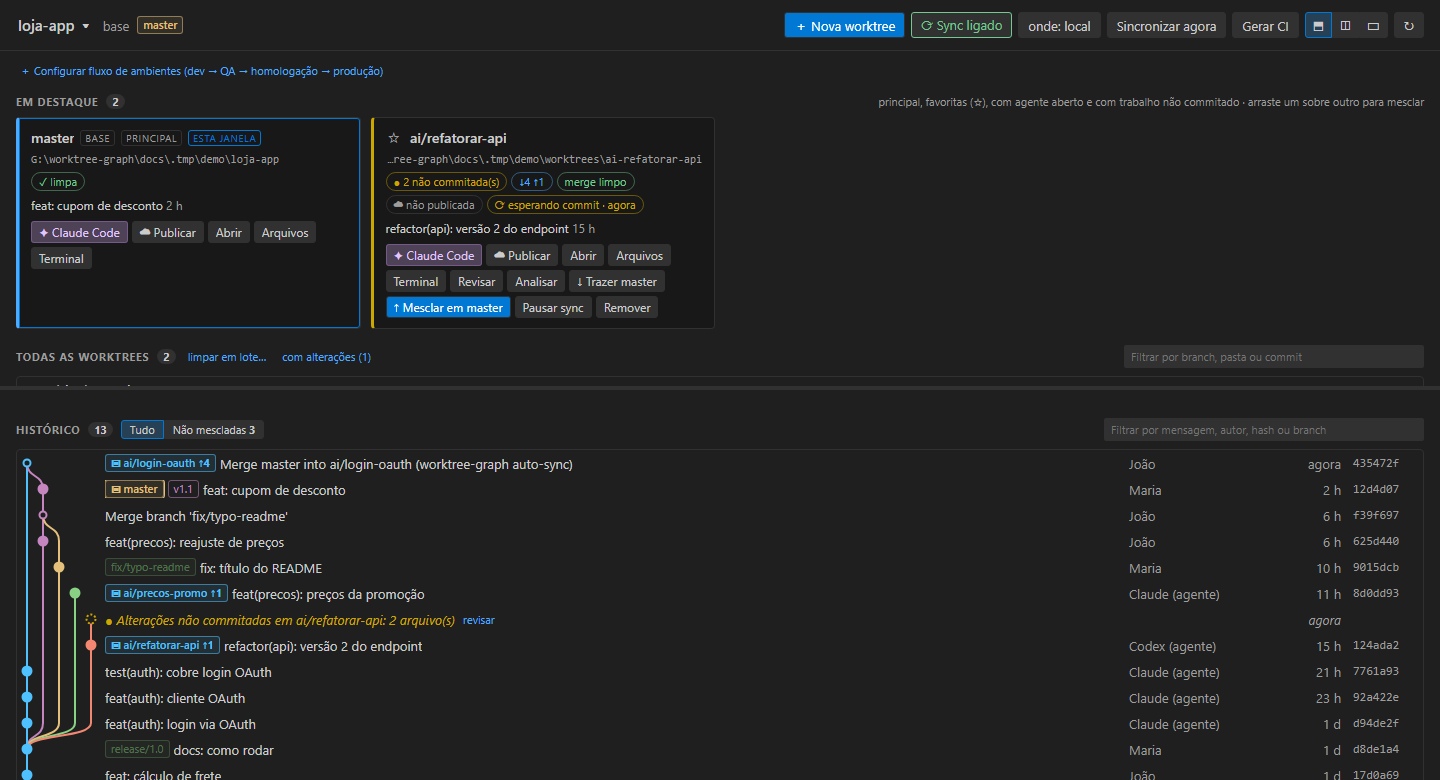
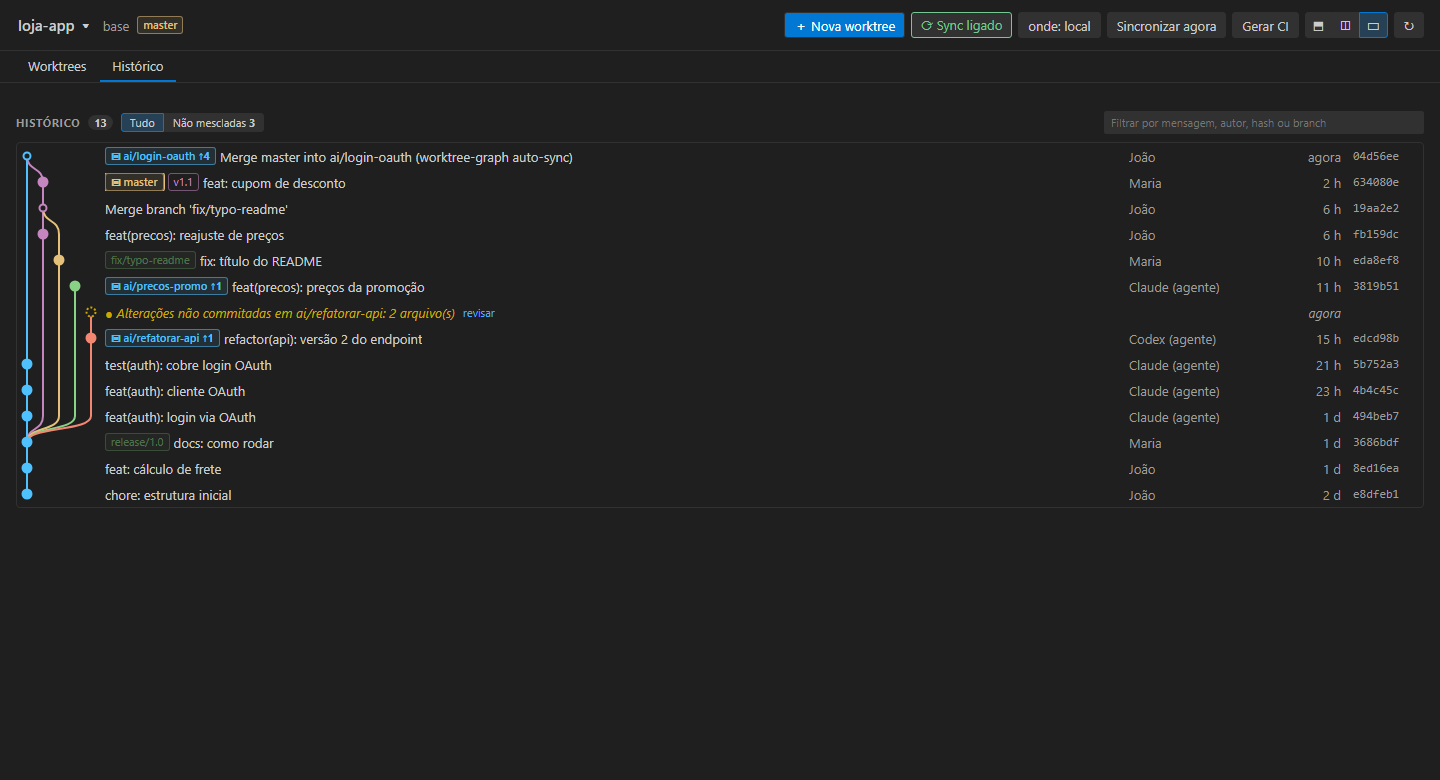
Comandos nos commits (ver alterações, explicar com o agente, abrir na web, branch/tag, reverter, voltar) e painel abrindo em abas no Histórico, com a preferência salva

diff --git a/src/commits.ts b/src/commits.ts
@@ -1,0 +1,162 @@
+import * as path from 'path';
+import * as vscode from 'vscode';
+import { createWorktree, pickBranch } from './actions';
+import type { Controller } from './controller';
+import { gitUri } from './diff';
+
+/** Ações sobre um commit do histórico (botão direito ou duplo clique numa linha do grafo). */
+
+async function info(ctl: Controller, sha: string) {
+  const out = await ctl.repo!.exec(['show', '-s', '--format=%H%x1f%s%x1f%b%x1f%an%x1f%P', sha]);
+  const [full, subject, body, author, parents] = out.trim().split('\x1f');
+  return { full, subject, body: body?.trim() ?? '', author, parents: parents ? parents.split(' ') : [] };
+}
+
+/** Arquivos alterados no commit; Enter abre o diff contra o pai, e a lista continua aberta. */
+export async function showCommit(ctl: Controller, sha: string) {
+  const repo = ctl.repo!;
+  const c = await info(ctl, sha);
+  const parent = c.parents[0];
+  const files = (await repo.exec(['show', '--format=', '--name-status', '--no-renames', '-m', '--first-parent', sha]))
+    .split(/\r?\n/)
+    .filter(Boolean)
+    .map(l => {
+      const [st, ...rest] = l.split('\t');
+      return { status: st[0], file: rest.join('\t') };
+    });
+  const qp = vscode.window.createQuickPick<vscode.QuickPickItem & { file: string; status: string }>();
+  qp.title = `${sha.slice(0, 7)} ${c.subject} — ${c.author}`;
+  qp.placeholder = files.length ? `${files.length} arquivo(s); Enter abre o diff` : 'Commit sem alterações de arquivo';
+  qp.ignoreFocusOut = true;
+  const label: Record<string, string> = { A: 'adicionado', M: 'modificado', D: 'removido', T: 'tipo alterado' };
+  qp.items = files.map(f => ({ label: path.basename(f.file), description: `${path.dirname(f.file) === '.' ? '' : path.dirname(f.file)}  ${label[f.status] ?? f.status}`, file: f.file, status: f.status }));
+  qp.onDidAccept(() => {
+    const it = qp.selectedItems[0];
+    if (!it) return;
+    const left = !parent || it.status === 'A' ? gitUri(repo.root, '__empty__', it.file) : gitUri(repo.root, parent, it.file);
+    const right = it.status === 'D' ? gitUri(repo.root, '__empty__', it.file) : gitUri(repo.root, sha, it.file);
+    vscode.commands.executeCommand('vscode.diff', left, right, `${path.basename(it.file)} (${sha.slice(0, 7)})`, { preview: true, preserveFocus: true });
+  });
+  qp.onDidHide(() => qp.dispose());
+  qp.show();
+}
+
+/** Worktree onde aplicar algo "na branch": pergunta entre as worktrees com branch. */
+async function pickWorktree(ctl: Controller, title: string) {
+  const wts = (await ctl.repo!.worktreesFast()).filter(w => w.branch && !w.prunable);
+  const pick = await vscode.window.showQuickPick(
+    wts.map(w => ({ label: w.branch!, description: w.path, wt: w })),
+    { title },
+  );
+  return pick?.wt;
+}
+
+export async function revertCommit(ctl: Controller, sha: string) {
+  const c = await info(ctl, sha);
+  const wt = await pickWorktree(ctl, `Reverter ${sha.slice(0, 7)} "${c.subject}" em qual branch?`);
+  if (!wt) return;
+  const st = await ctl.repo!.status(wt.path);
+  if (st.changes || st.operation) {
+    vscode.window.showWarningMessage(`A worktree de ${wt.branch} tem alterações ou operação em andamento; faça commit ou stash antes.`);
+    return;
+  }
+  const args = ['revert', '--no-edit', ...(c.parents.length > 1 ? ['-m', '1'] : []), sha];
+  const r = await ctl.repo!.run(args, wt.path, 120_000);
+  if (r.code === 0) {
+    vscode.window.showInformationMessage(`Commit ${sha.slice(0, 7)} revertido em ${wt.branch}.`);
+  } else {
+    const conflicts = await ctl.repo!.conflictedFiles(wt.path);
+    const pick = await vscode.window.showWarningMessage(
+      conflicts.length ? `Conflito ao reverter em ${wt.branch} (${conflicts.length} arquivo(s)); o revert ficou em andamento.` : `Revert falhou: ${(r.stderr || r.stdout).trim()}`,
+      ...(conflicts.length ? ['Abrir arquivos', 'Abortar revert'] : []),
+    );
+    if (pick === 'Abrir arquivos') for (const f of conflicts.slice(0, 20)) await vscode.window.showTextDocument(vscode.Uri.file(path.join(wt.path, f)), { preview: false });
+    if (pick === 'Abortar revert') await ctl.repo!.run(['revert', '--abort'], wt.path);
+  }
+  ctl.scheduleRefresh(50);
+}
+
+/** Volta a branch até o commit. --keep preserva alterações não commitadas que não conflitam. */
+export async function resetTo(ctl: Controller, sha: string) {
+  const repo = ctl.repo!;
+  const wt = await pickWorktree(ctl, `Voltar qual branch até ${sha.slice(0, 7)}?`);
+  if (!wt?.branch) return;
+  const contains = (await repo.run(['merge-base', '--is-ancestor', sha, wt.branch])).code === 0;
+  if (!contains) {
+    vscode.window.showWarningMessage(`${sha.slice(0, 7)} não faz parte de ${wt.branch}.`);
+    return;
+  }
+  const lost = (await repo.exec(['rev-list', '--count', `${sha}..${wt.branch}`])).trim();
+  const backup = `refs/worktree-graph/backup/${wt.branch}/${Date.now()}`;
+  const typed = await vscode.window.showInputBox({
+    title: `Voltar ${wt.branch} até ${sha.slice(0, 7)}`,
+    prompt: `${lost} commit(s) saem da branch (fica um backup em ${backup}). Digite o nome da branch para confirmar.`,
+    ignoreFocusOut: true,
+    validateInput: v => (v === wt.branch ? undefined : `Digite ${wt.branch}`),
+  });
+  if (typed !== wt.branch) return;
+  await repo.exec(['update-ref', backup, wt.branch]);
+  const r = await repo.run(['reset', '--keep', sha], wt.path);
+  if (r.code !== 0) {
+    vscode.window.showErrorMessage(`Não consegui voltar (há alterações que conflitam?): ${(r.stderr || r.stdout).trim()}`);
+    return;
+  }
+  ctl.log(`reset --keep ${wt.branch} → ${sha} (backup em ${backup})`);
+  const undo = await vscode.window.showInformationMessage(`${wt.branch} voltou para ${sha.slice(0, 7)}.`, 'Desfazer');
+  if (undo) await repo.run(['reset', '--keep', backup], wt.path);
+  ctl.scheduleRefresh(50);
+}
+
+export async function branchAt(ctl: Controller, sha: string) {
+  const names = new Set((await ctl.repo!.refs()).filter(r => r.kind === 'head').map(r => r.name));
+  const name = await vscode.window.showInputBox({
+    title: `Nova branch em ${sha.slice(0, 7)} (sem worktree)`,
+    validateInput: v => (!v.trim() ? 'Informe um nome.' : names.has(v) ? 'Essa branch já existe.' : /[\s~^:?*[\\]|\.\.|@\{/.test(v) ? 'Nome inválido.' : undefined),
+  });
+  if (!name) return;
+  await ctl.repo!.exec(['branch', name, sha]);
+  const go = await vscode.window.showInformationMessage(`Branch ${name} criada em ${sha.slice(0, 7)}.`, 'Criar worktree dela');
+  if (go) await createWorktree(ctl, { existing: name });
+  ctl.scheduleRefresh(50);
+}
+
+export async function tagAt(ctl: Controller, sha: string) {
+  const name = await vscode.window.showInputBox({ title: `Tag em ${sha.slice(0, 7)}`, prompt: 'Nome (ex.: v1.2.0)', validateInput: v => (/^[^\s~^:?*[\\]+$/.test(v) ? undefined : 'Nome inválido.') });
+  if (!name) return;
+  const msg = await vscode.window.showInputBox({ title: `Tag ${name}`, prompt: 'Mensagem (vazio = tag leve)' });
+  if (msg === undefined) return;
+  await ctl.repo!.exec(msg ? ['tag', '-a', name, '-m', msg, sha] : ['tag', name, sha]);
+  vscode.window.showInformationMessage(`Tag ${name} criada. Para enviar: git push origin ${name}.`);
+  ctl.scheduleRefresh(50);
+}
+
+export function commitUrl(r: { kind: string; webBase: string; projectPath: string }, sha: string): string {
+  return r.kind === 'gitlab' ? `${r.webBase}/${r.projectPath}/-/commit/${sha}` : `${r.webBase}/${r.projectPath}/commit/${sha}`;
+}
+
+export async function openCommitOnWeb(ctl: Controller, sha: string) {
+  const r = await ctl.requests.detectRemote();
+  if (!r) {
+    vscode.window.showWarningMessage('O remoto não é GitHub nem GitLab reconhecido.');
+    return;
+  }
+  await vscode.env.openExternal(vscode.Uri.parse(commitUrl(r, sha)));
+}
+
+export async function explainCommit(ctl: Controller, sha: string) {
+  const c = await info(ctl, sha);
+  const branch = await pickBranch(ctl, undefined, `Abrir o agente em qual worktree para explicar ${sha.slice(0, 7)}?`, true);
+  if (!branch) return;
+  const prompt = [
+    `Explique o commit ${c.full} ("${c.subject}", de ${c.author}).`,
+    'Rode `git show ' + c.full + '` para ver o diff. Diga o que mudou, por quê (pelo contexto do código), riscos e o que testar.',
+    'Não altere nenhum arquivo.',
+  ].join('\n');
+  await vscode.commands.executeCommand('worktreeGraph.launchAgentWithPrompt', { branch, prompt });
+}
+
+export async function copyMessage(ctl: Controller, sha: string) {
+  const c = await info(ctl, sha);
+  await vscode.env.clipboard.writeText(c.body ? `${c.subject}\n\n${c.body}` : c.subject);
+  vscode.window.setStatusBarMessage('Mensagem do commit copiada', 2500);
+}

diff --git a/media/graph.js b/media/graph.js
@@ -10,8 +10,12 @@
   let state = null;
   let filter = '';
   /** Layout do painel (fica guardado pelo VS Code entre recargas do webview). */
-  const ui = Object.assign({ layout: 'rows', split: 46, tab: 'a' }, (vscode.getState() || {}).ui);
-  const saveUi = () => vscode.setState({ ...(vscode.getState() || {}), ui });
+  // Padrão: abas, abrindo no Histórico. A escolha do usuário fica no VS Code (mensagem 'saveUi').
+  const ui = Object.assign({ layout: 'tabs', split: 46, tab: 'b' }, (vscode.getState() || {}).ui);
+  const saveUi = () => {
+    vscode.setState({ ...(vscode.getState() || {}), ui });
+    vscode.postMessage({ type: 'saveUi', ui: { ...ui } });
+  };
   const app = /** @type {HTMLElement} */ (document.getElementById('app'));
 
   const send = (action, args = {}) => vscode.postMessage({ type: 'action', action, args });
@@ -32,6 +36,12 @@
     if (m.type === 'state') {
       state = m.state;
       render();
+    } else if (m.type === 'ui') {
+      if (m.ui) {
+        Object.assign(ui, m.ui);
+        vscode.setState({ ...(vscode.getState() || {}), ui });
+        if (state) render();
+      }
     } else if (m.type === 'demo') {
       demo(m);
     } else if (m.type === 'busy') {
@@ -642,6 +652,11 @@
     if (target && target !== dragging) send('mergeBranches', { source: dragging, target });
   });
 
+  document.addEventListener('dblclick', e => {
+    const row = /** @type {HTMLElement} */ (e.target).closest?.('.row[data-sha]');
+    if (row) send('showCommit', { sha: /** @type {HTMLElement} */ (row).dataset.sha });
+  });
+
   // divisor entre worktrees e histórico
   document.addEventListener('mousedown', e => {
     const sp = /** @type {HTMLElement} */ (e.target).closest?.('.splitter');
@@ -719,8 +734,19 @@
     } else if (row && row.dataset.sha) {
       const sha = row.dataset.sha;
       items.push(`<div class="menu-title">${sha.slice(0, 10)}</div>`);
+      items.push(item('showCommit', 'Ver alterações do commit', { sha }));
+      if (state.agentNames && state.agentNames[0]) items.push(item('explainCommit', `✦ Explicar com ${state.agentNames[0]}`, { sha }, 'agent'));
+      if (state.hosting) items.push(item('openCommitOnWeb', `Abrir no ${state.hosting.kind === 'gitlab' ? 'GitLab' : 'GitHub'}`, { sha }));
+      items.push('<hr>');
       items.push(item('copy', 'Copiar hash', { text: sha }));
+      items.push(item('copyMessage', 'Copiar mensagem', { sha }));
+      items.push('<hr>');
       items.push(item('createWorktree', 'Nova branch + worktree a partir deste commit', { startPoint: sha }));
+      items.push(item('branchAt', 'Criar branch aqui (sem worktree)…', { sha }));
+      items.push(item('tagAt', 'Criar tag aqui…', { sha }));
+      items.push('<hr>');
+      items.push(item('revertCommit', 'Reverter este commit em…', { sha }));
+      items.push(item('resetTo', 'Voltar uma branch até aqui…', { sha }, 'danger'));
     }
     if (!items.length) return;
     e.preventDefault();

diff --git a/src/extension.ts b/src/extension.ts
@@ -1,6 +1,7 @@
 import * as vscode from 'vscode';
 import * as actions from './actions';
 import { AgentTerminals } from './agents';
+import * as commits from './commits';
 import { pushBranch, pushMany } from './push';
 import { resolveConflict, ResolveOptions } from './conflicts';
 import { generateCiWorkflow } from './ciTemplate';
@@ -171,6 +172,22 @@ export async function activate(ctx: vscode.ExtensionContext) {
         return;
       case 'pushMany':
         return pushMany(ctl);
+      case 'showCommit':
+        return commits.showCommit(ctl, a.sha);
+      case 'copyMessage':
+        return commits.copyMessage(ctl, a.sha);
+      case 'branchAt':
+        return commits.branchAt(ctl, a.sha);
+      case 'tagAt':
+        return commits.tagAt(ctl, a.sha);
+      case 'revertCommit':
+        return commits.revertCommit(ctl, a.sha);
+      case 'resetTo':
+        return commits.resetTo(ctl, a.sha);
+      case 'openCommitOnWeb':
+        return commits.openCommitOnWeb(ctl, a.sha);
+      case 'explainCommit':
+        return commits.explainCommit(ctl, a.sha);
       case 'setGraphFilter':
         await ctx.workspaceState.update('graphFilter', a.value === 'unmerged' ? 'unmerged' : 'all');
         return ctl.refresh();

diff --git a/test/suite.js b/test/suite.js
@@ -315,6 +315,12 @@ exports.run = async () => {
     assert.strictEqual(ctl.state.worktrees.find(w => w.branch === 'ai/login-oauth').remote.ahead, 0, 'enviado');
   });
 
+  await check('commits: URL no GitHub/GitLab e branch criada num commit', async () => {
+    const { commitUrl } = require('../out/commits');
+    assert.strictEqual(commitUrl({ kind: 'github', webBase: 'https://github.com', projectPath: 'a/b' }, 'abc'), 'https://github.com/a/b/commit/abc');
+    assert.strictEqual(commitUrl({ kind: 'gitlab', webBase: 'https://git.x:8443', projectPath: 'g/s/p' }, 'abc'), 'https://git.x:8443/g/s/p/-/commit/abc');
+  });
+
   if (process.env.WTGRAPH_PRINT) await printScene(ctl, tree);
   if (process.env.WTGRAPH_VIDEO) await videoScene(api);
   console.log('\n' + results.join('\n'));

diff --git a/scripts/print-harness.html b/scripts/print-harness.html
@@ -14,6 +14,9 @@
 <script src="../docs/.tmp/state.js"></script>
 <script>
   const scene = location.hash.slice(1);
+  const later = f => setTimeout(f, 50);
+  // cenas de cards usam o layout empilhado; as de histórico, o padrão (abas no Histórico)
+  if (!['menu-commit', 'graph'].includes(scene)) window.postMessage({ type: 'ui', ui: { layout: 'rows', tab: 'a' } }, '*');
   window.__wtgraphSetState(window.__STATE);
   const fire = (el, type, x, y) => el.dispatchEvent(new MouseEvent(type, { bubbles: true, cancelable: true, clientX: x, clientY: y }));
   if (scene === 'menu') {

diff --git a/src/graphPanel.ts b/src/graphPanel.ts
@@ -37,7 +37,12 @@ export class GraphPanel implements vscode.Disposable {
       }),
       panel.onDidChangeViewState(e => e.webviewPanel.visible && ctl.scheduleRefresh(50)),
       panel.webview.onDidReceiveMessage(async msg => {
+        if (msg.type === 'saveUi') {
+          await ctl.ctx.globalState.update('panelUi', msg.ui);
+          return;
+        }
         if (msg.type === 'ready') {
+          panel.webview.postMessage({ type: 'ui', ui: ctl.ctx.globalState.get('panelUi') ?? null });
           this.post();
           ctl.scheduleRefresh(50);
           return;
